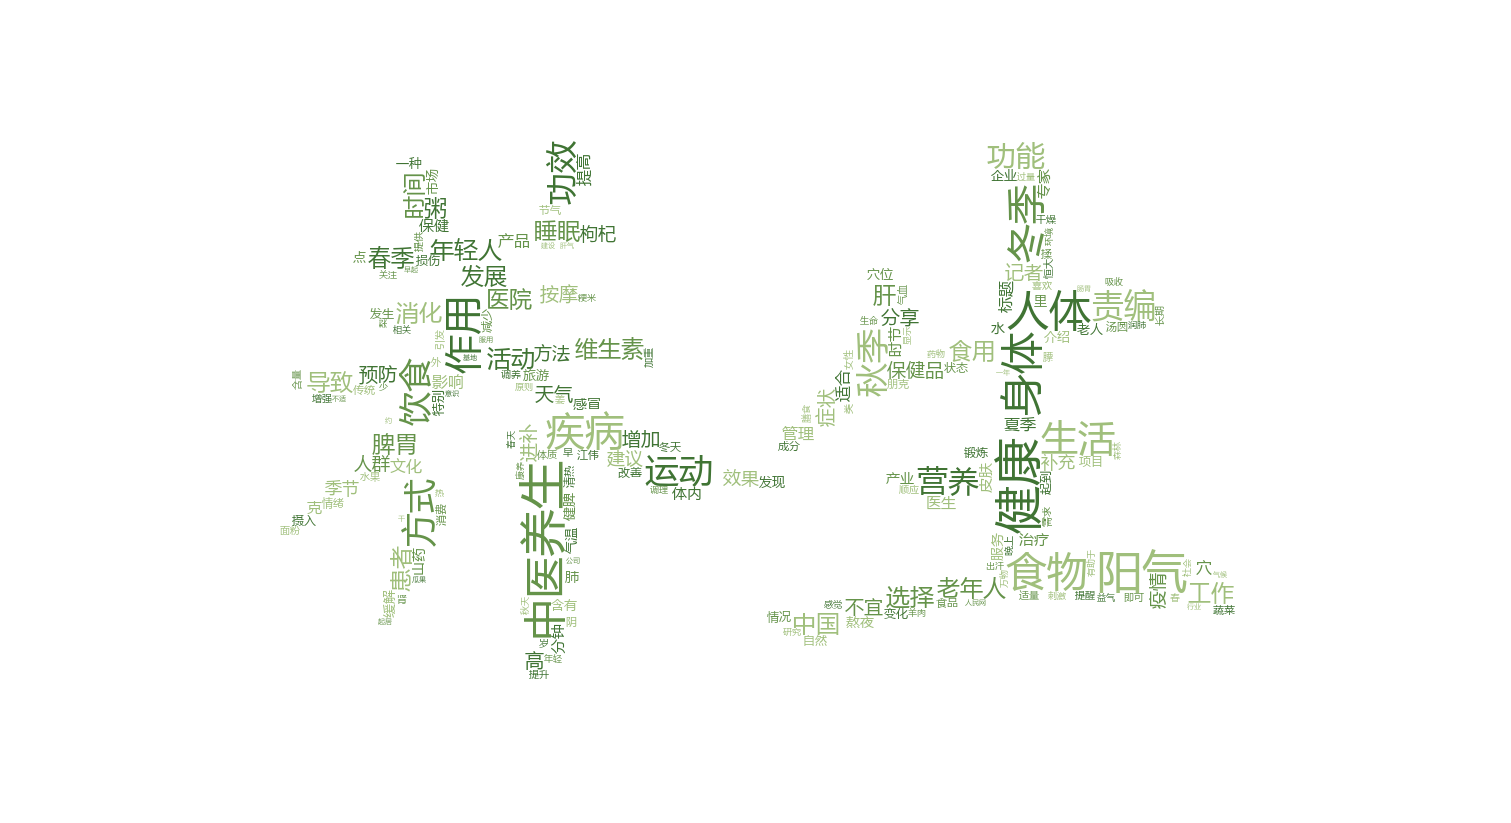
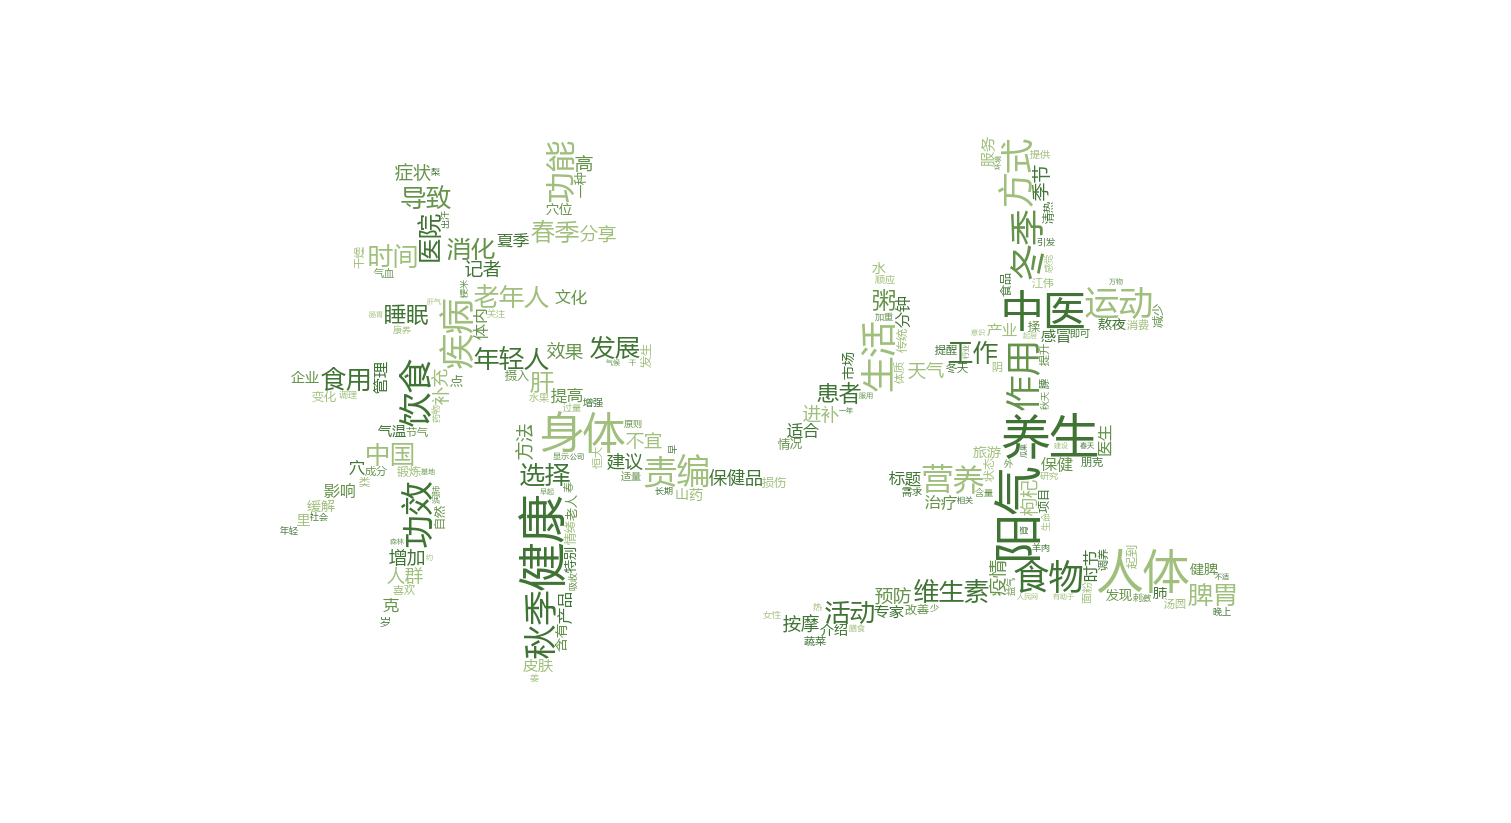
添加了配置可能出现的问题的解决方法

Changed region(s): [[0.1866, 0.1823, 0.5288, 0.8202], [0.4977, 0.1519, 0.8398, 0.7898], [0.1866, 0.6075, 0.2177, 0.6683]]

diff --git a/main.py b/main.py
@@ -9,8 +9,8 @@ from DrawWordCloud import ImgDraw
 
 
 def main():
-    WordCut()
-    Count()
+    # WordCut()
+    # Count()
     ImgDraw()
 
 

diff --git a/README.md b/README.md
@@ -33,3 +33,14 @@ Configs文件夹下的文件，Utils下为生成数据文件
 pip3 install -r requirements.txt
 ```
 
+## 4. 备注
+
+如果报没有nltk_data的错误请先安装nltk_data，安装好放到运行环境目录下就好，安装可能有问题，可以网上搜或留言要压缩包
+
+Mac用户记得没有文字包先下载msyh.ttc文字包放到本地
+
+## 5. 运行结果展示
+
+样例为养生新闻的词云图
+
+![养生新闻](https://tva1.sinaimg.cn/large/e6c9d24ely1h0eiudukw4j215z0mvacr.jpg)
